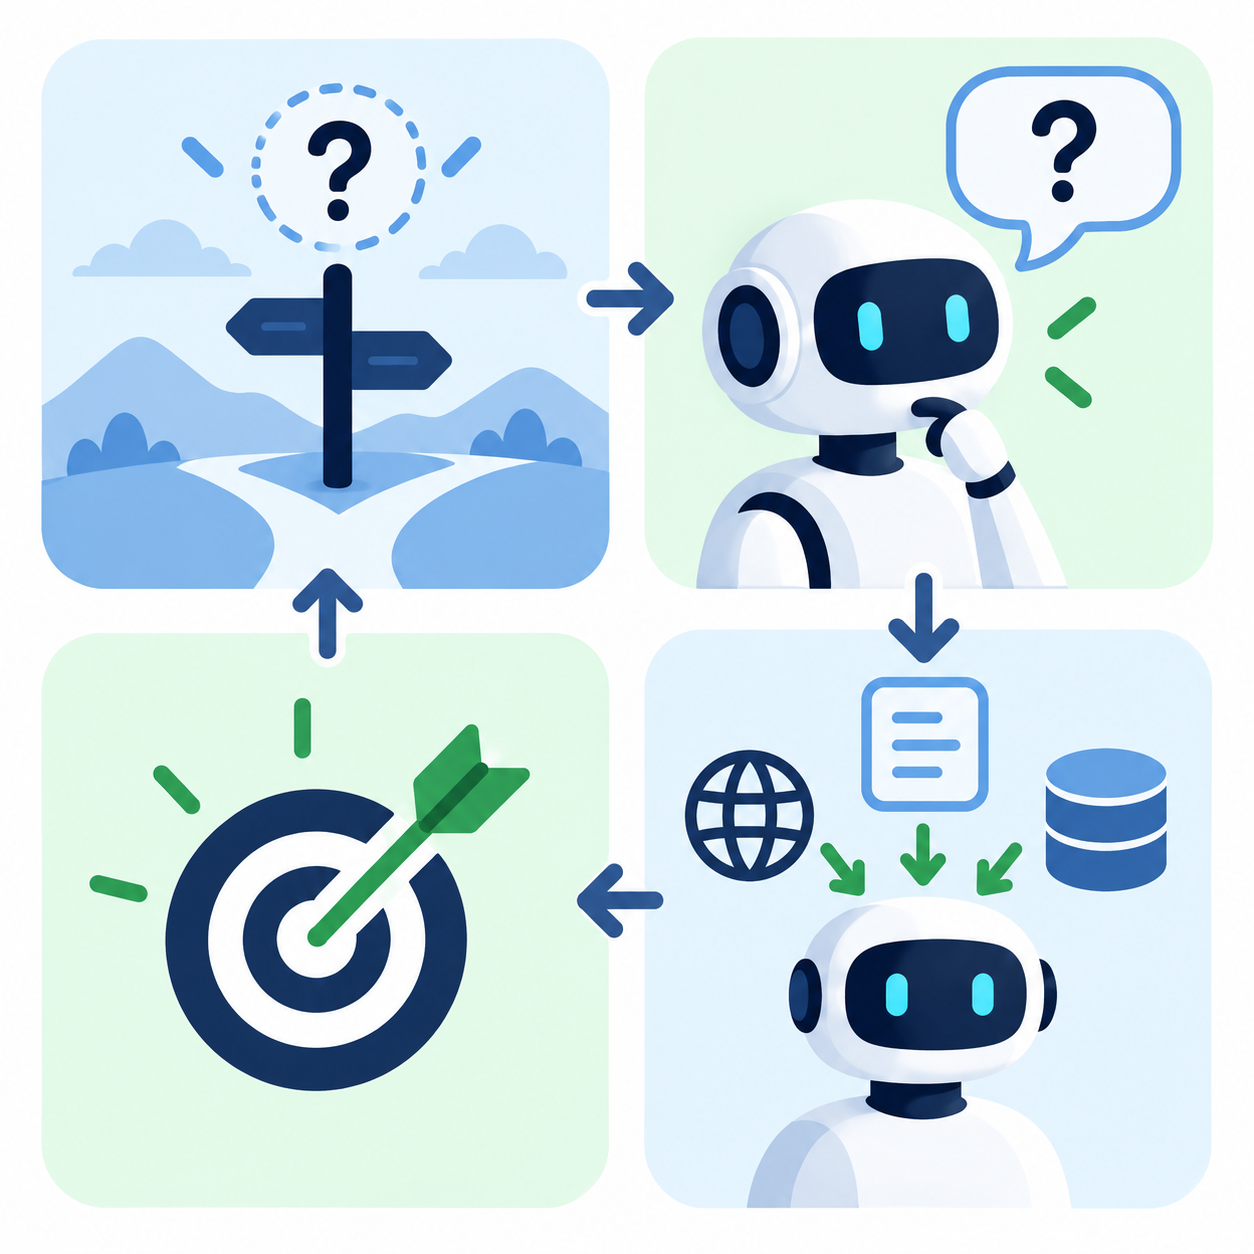
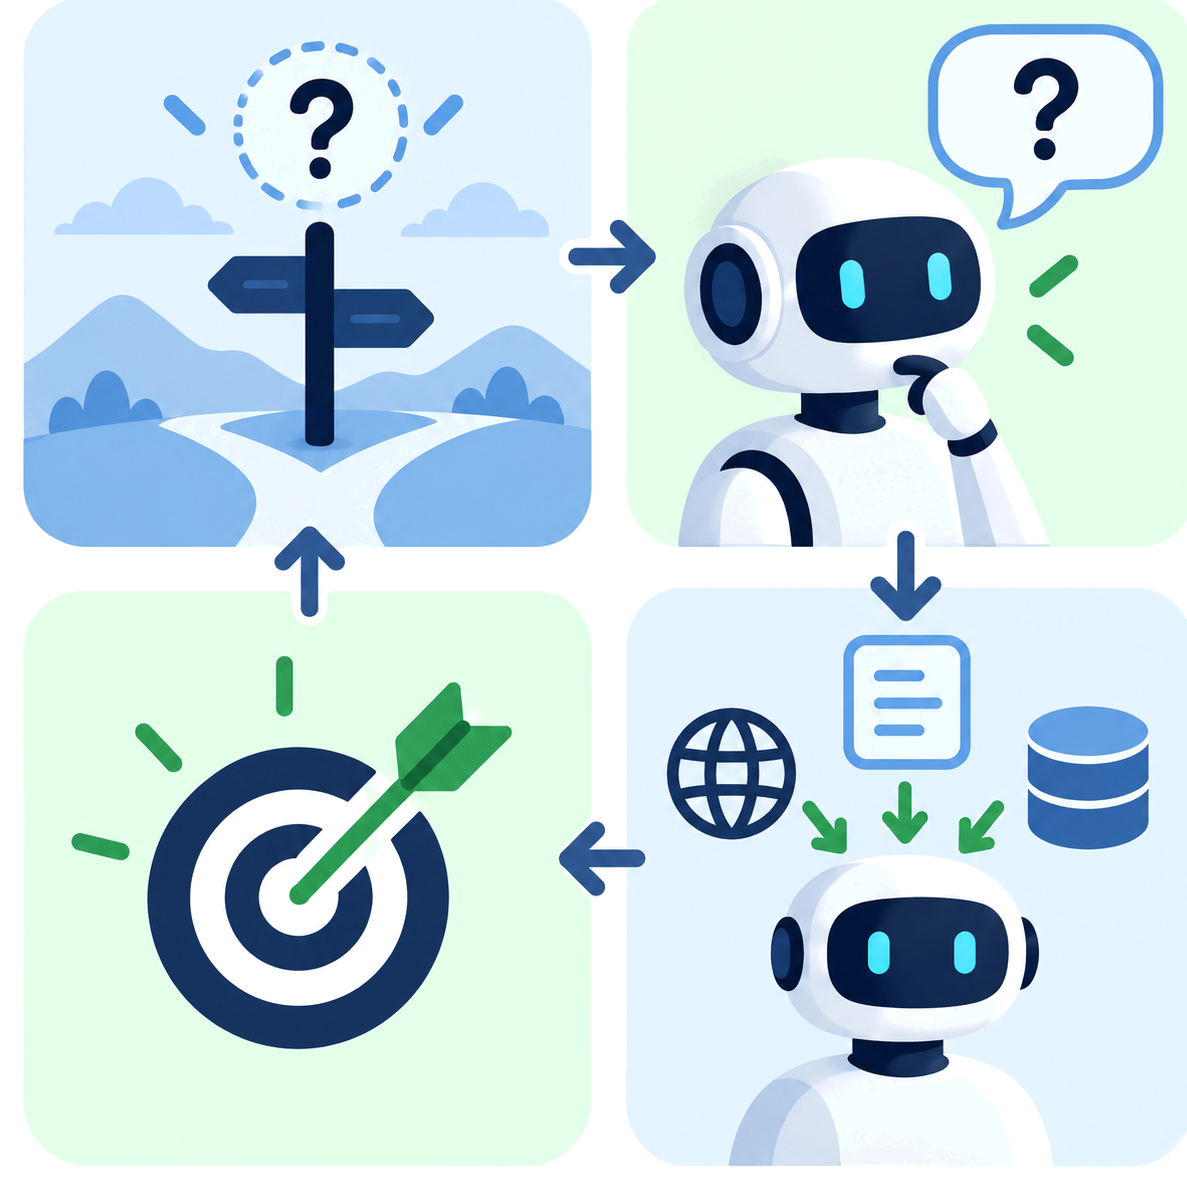
research_participate_Ok's_topic_update_fix2

diff --git a/research_participate.html b/research_participate.html
@@ -118,7 +118,7 @@
 <li>
     <div class="row" style="padding-top: 40px;">
       <div class="col-sm-2" >
-          <img class="img-responsive img-header img-header-lg" src="img/reseach_participate/editing.png" alt=""  />
+          <img class="img-responsive img-header" src="img/reseach_participate/editing.png" alt=""  />
       </div>
       <div class="col-sm-10">
           <h4 class="header"># Controllable Visual Content Generation and Editing - Advisor: Jungseul Ok, Mentor: Sunung Mun </h4>
@@ -158,7 +158,7 @@
   <li>
     <div class="row" style="padding-top: 40px;">
       <div class="col-sm-2" >
-          <img class="img-responsive img-header img-header-lg" src="img/reseach_participate/bandit.png" alt=""  />
+          <img class="img-responsive img-header" src="img/reseach_participate/bandit.png" alt=""  />
       </div>
       <div class="col-sm-10">
           <h4 class="header"># Theoretical Analysis for Online Learning - Advisor: Jungseul Ok, Mentor: Seockbean Song </h4>
@@ -197,7 +197,7 @@
   <li>
     <div class="row" style="padding-top: 40px;">
       <div class="col-sm-2" >
-          <img class="img-responsive img-header img-header-lg" src="img/reseach_participate/agent.png" alt=""  />
+          <img class="img-responsive img-header" src="img/reseach_participate/agent.png" alt=""  />
       </div>
       <div class="col-sm-10">
           <h4 class="header"># From Uncertainty to Better Decision - Advisor: Jungseul Ok, Mentor: Minhyeon Oh </h4>
@@ -216,7 +216,7 @@
   <li>
     <div class="row" style="padding-top: 40px;">
       <div class="col-sm-2" >
-          <img class="img-responsive img-header img-header-xl" src="img/reseach_participate/robot_plan.png" alt=""  />
+          <img class="img-responsive img-header" src="img/reseach_participate/robot_plan.png" alt=""  />
       </div>
       <div class="col-sm-10">
           <h4 class="header"># Experience-Driven Self-Evolving Robotic Planning - Advisor: Jungseul Ok, Mentor: Seungjoon Lee </h4>
@@ -235,7 +235,7 @@
   <li>
     <div class="row" style="padding-top: 40px;">
       <div class="col-sm-2" >
-          <img class="img-responsive img-header img-header-xl" src="img/reseach_participate/reasoning.png" alt=""  />
+          <img class="img-responsive img-header" src="img/reseach_participate/reasoning.png" alt=""  />
       </div>
       <div class="col-sm-10">
           <h4 class="header"># Reasoning and Discovery with LLMs - Advisor: Jungseul Ok, Mentor: Sungjae Lee </h4>

diff --git a/static/mlpostech.css b/static/mlpostech.css
@@ -362,19 +362,6 @@ ul.a {
   /*60px 10px 60px 50px;*/
 }
 
-/* slightly larger header image for illustrations with small content */
-.img-header-lg {
-  padding: 22% 0% 22% 10%;
-}
-
-/* wide illustrations: use the full column width and spill slightly into the gutter */
-.img-header-xl {
-  padding: 12% 0% 12% 0%;
-  width: 112%;
-  max-width: 112%;
-  margin-left: -6%;
-}
-
 
 .bibtexentry {
   text-align: justify;
